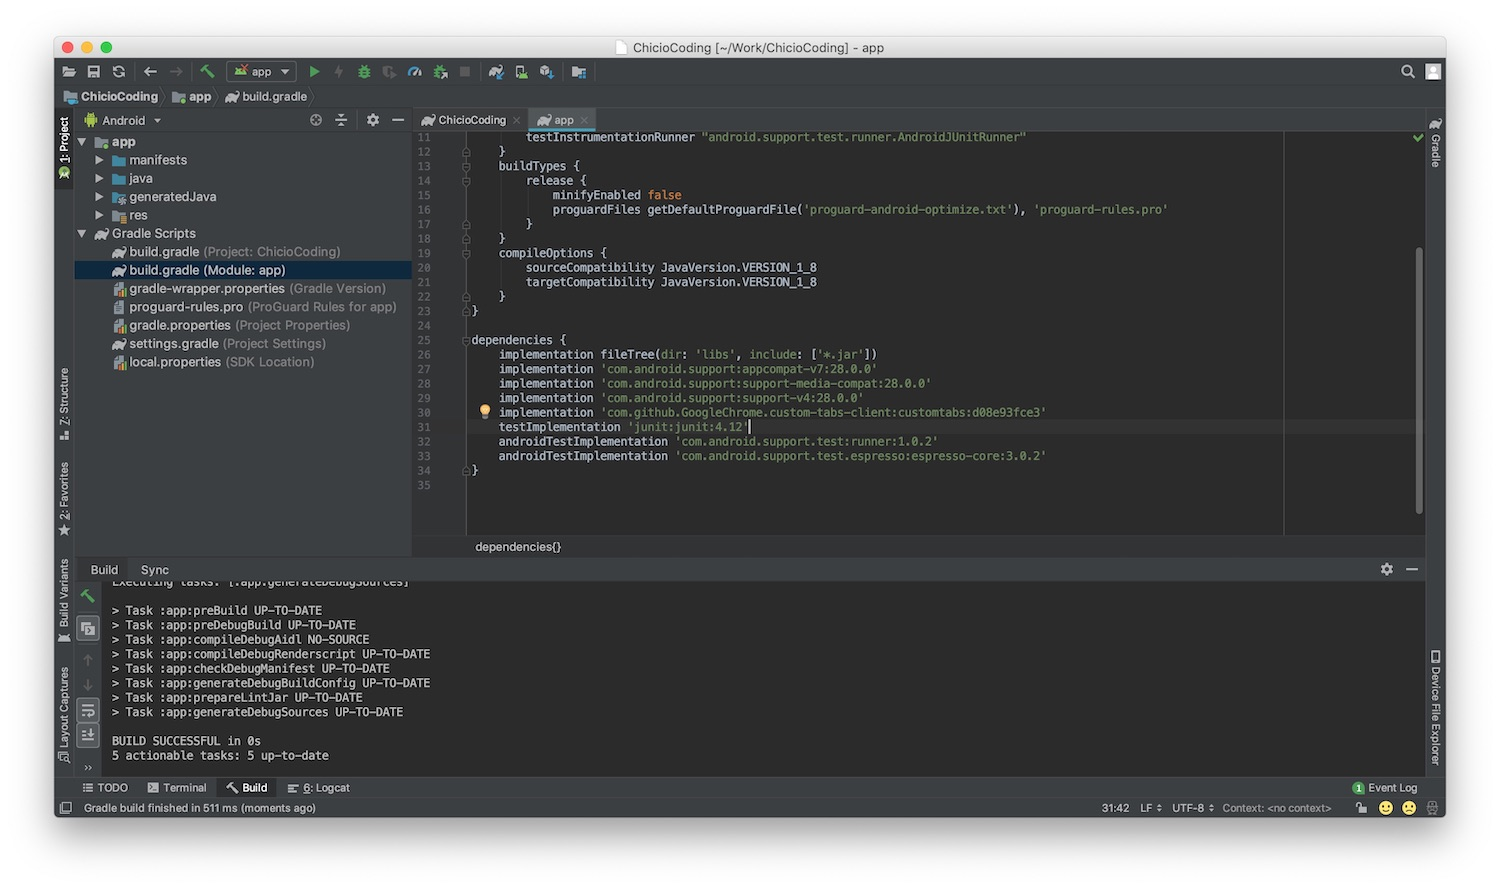
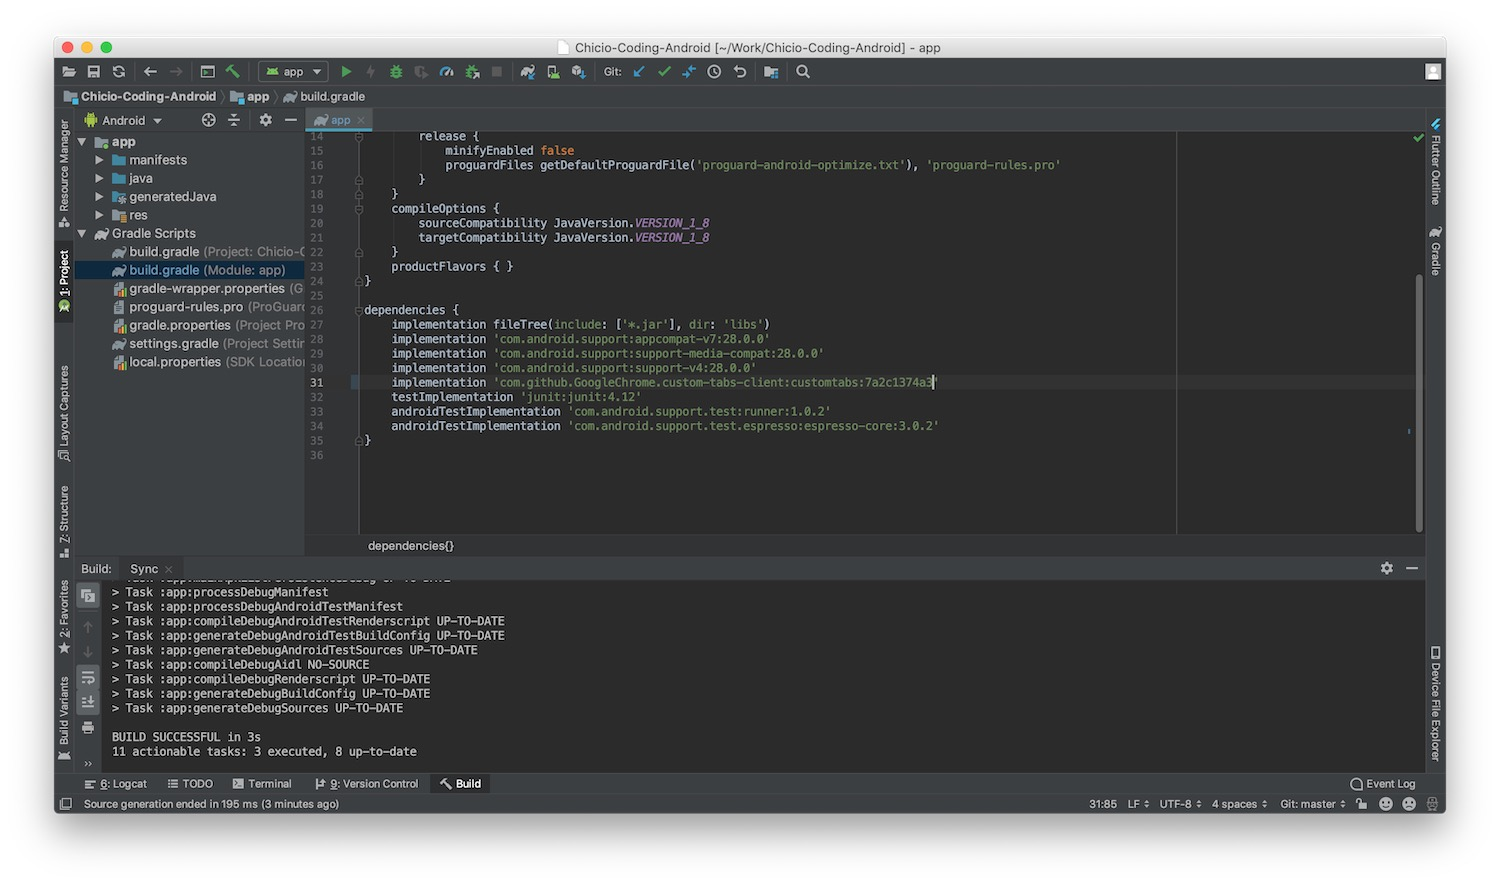
Update post :rocket:

diff --git a/_includes/critical.css b/_includes/critical.css
@@ -1,1 +1,1 @@
-@font-face{font-family:"Open Sans";src:local("Open Sans Regular"),url(/assets/fonts/opensans/OpenSans-Regular.woff2) format("woff2"),url(/assets/opensans/OpenSans-Regular.woff) format("woff"),url(/assets/opensans/OpenSans-Regular.eot?#iefix) format("embedded-opentype"),url(/assets/opensans/OpenSans-Regular.ttf) format("truetype"),url(/assets/opensans/OpenSans-Regular.svg#OpenSansRegular) format("svg");font-weight:400;font-style:normal;font-display:fallback}@font-face{font-family:icomoon;src:url(../assets/fonts/icomoon/icomoon.eot?6uv2il);src:url(../assets/fonts/icomoon/icomoon.eot?6uv2il#iefix) format("embedded-opentype"),url(../assets/fonts/icomoon/icomoon.ttf?6uv2il) format("truetype"),url(../assets/fonts/icomoon/icomoon.woff?6uv2il) format("woff"),url(../assets/fonts/icomoon/icomoon.svg?6uv2il#icomoon) format("svg");font-weight:400;font-style:normal;font-display:fallback}:root{--blue:#007bff;--indigo:#6610f2;--purple:#6f42c1;--pink:#e83e8c;--red:#dc3545;--orange:#fd7e14;--yellow:#ffc107;--green:#28a745;--teal:#20c997;--cyan:#17a2b8;--white:#fff;--gray:#6c757d;--gray-dark:#343a40;--primary:#007bff;--secondary:#6c757d;--success:#28a745;--info:#17a2b8;--warning:#ffc107;--danger:#dc3545;--light:#f8f9fa;--dark:#343a40;--breakpoint-xs:0;--breakpoint-sm:576px;--breakpoint-md:768px;--breakpoint-lg:992px;--breakpoint-xl:1200px;--font-family-sans-serif:-apple-system,BlinkMacSystemFont,"Segoe UI",Roboto,"Helvetica Neue",Arial,"Noto Sans",sans-serif,"Apple Color Emoji","Segoe UI Emoji","Segoe UI Symbol","Noto Color Emoji";--font-family-monospace:SFMono-Regular,Menlo,Monaco,Consolas,"Liberation Mono","Courier New",monospace}*,::after,::before{box-sizing:border-box}html{font-family:sans-serif;line-height:1.15;-webkit-text-size-adjust:100%}body{margin:0;font-family:-apple-system,BlinkMacSystemFont,"Segoe UI",Roboto,"Helvetica Neue",Arial,"Noto Sans",sans-serif,"Apple Color Emoji","Segoe UI Emoji","Segoe UI Symbol","Noto Color Emoji";font-size:1rem;font-weight:400;line-height:1.5;color:#212529;text-align:left;background-color:#fff}h1,h3,h4{margin-top:0;margin-bottom:.5rem}p{margin-top:0;margin-bottom:1rem}ul{margin-top:0;margin-bottom:1rem}ul ul{margin-bottom:0}small{font-size:80%}a{color:#007bff;text-decoration:none;background-color:transparent}img{vertical-align:middle;border-style:none}::-webkit-file-upload-button{font:inherit;-webkit-appearance:button}h1,h3,h4{margin-bottom:.5rem;font-weight:500;line-height:1.2}h1{font-size:2.5rem}h3{font-size:1.75rem}h4{font-size:1.5rem}small{font-size:80%;font-weight:400}.img-fluid{max-width:100%;height:auto}.container{width:100%;padding-right:15px;padding-left:15px;margin-right:auto;margin-left:auto}@media (min-width:576px){.container{max-width:540px}}@media (min-width:768px){.container{max-width:720px}}@media (min-width:992px){.container{max-width:960px}}@media (min-width:1200px){.container{max-width:1140px}}.container-fluid{width:100%;padding-right:15px;padding-left:15px;margin-right:auto;margin-left:auto}.row{display:flex;flex-wrap:wrap;margin-right:-15px;margin-left:-15px}.col-12,.col-lg-6{position:relative;width:100%;padding-right:15px;padding-left:15px}.col-12{flex:0 0 100%;max-width:100%}.order-0{order:0}.order-1{order:1}.btn{display:inline-block;font-weight:400;color:#212529;text-align:center;vertical-align:middle;background-color:transparent;border:1px solid transparent;padding:.375rem .75rem;font-size:1rem;line-height:1.5;border-radius:.25rem}.tab-content>.tab-pane{display:none}.tab-content>.active{display:block}.d-none{display:none!important}.d-block{display:block!important}@media (min-width:768px){.d-md-block{display:block!important}}@media (min-width:992px){.col-lg-6{flex:0 0 50%;max-width:50%}.order-lg-0{order:0}.order-lg-1{order:1}.d-lg-none{display:none!important}.d-lg-block{display:block!important}}.mx-auto{margin-right:auto!important}.mx-auto{margin-left:auto!important}.text-center{text-align:center!important}.text-muted{color:#6c757d!important}[class*=" icon-"],[class^=icon-]{font-family:icomoon!important;speak:none;font-style:normal;font-weight:400;font-variant:normal;text-transform:none;line-height:1;-webkit-font-smoothing:antialiased;-moz-osx-font-smoothing:grayscale}.icon-dev-dot-to:before{content:"\e900"}.icon-chevron-down:before{content:"\f078"}.icon-facebook-square:before{content:"\f082"}.icon-linkedin-square:before{content:"\f08c"}.icon-twitter:before{content:"\f099"}.icon-github:before{content:"\f09b"}.icon-briefcase:before{content:"\f0b1"}.icon-envelope:before{content:"\f0e0"}.icon-mobile-phone:before{content:"\f10b"}.icon-instagram:before{content:"\f16d"}.icon-graduation-cap:before{content:"\f19d"}.icon-medium:before{content:"\f23a"}.loader{border:5px solid #fafafa;border-top:5px solid #0f67ff;border-radius:50%;width:120px;height:120px;animation:1s ease-in-out infinite spin;z-index:200;position:absolute;top:50%;left:50%;margin:-60px 0 0 -60px}@keyframes spin{0%{transform:rotate(0)}100%{transform:rotate(360deg)}}.footer .footer-icon{font-size:1.2em;width:1.5em;height:1.5em;line-height:1.5em!important;text-align:center;background:#0f67ff;border-radius:.5em;margin:5px;color:#fff;display:inline-block}html{max-width:100%;overflow-x:hidden}html body{font:20px 'Open Sans',Helvetica,Arial,sans-serif;line-height:1.8;max-width:100%;overflow-x:hidden}p{font-size:16px}.lazy{background-color:#bdbdbd}.break{display:inline}.vertical-center-row{display:table-cell;vertical-align:middle;width:100%}.break{display:none}@media (min-width:992px){.phone-number{display:none!important}.project{max-width:1100px}}.profile-introduction{color:#fff;background-color:#3f51b5;height:100vh;min-width:100%;display:table;font-size:18px}.profile-introduction #rendering-surface{width:100%;height:100%;position:absolute;padding:0;margin:0;left:0;background-color:#3f51b5;opacity:0}.profile-introduction .center-content{background-color:transparent;position:relative;z-index:100;opacity:0}.profile-introduction .center-content a{text-decoration:none}.profile-introduction .center-content h1{font-size:32px}.profile-introduction .center-content h3{margin-top:10px;margin-bottom:20px;font-size:18px}.profile-introduction .center-content .profile-job{color:#fff}.profile-introduction .center-content .profile-icon{display:inline-block;font-size:1.5em;width:1.5em;text-align:center;line-height:1.5em;background:#0f67ff;color:#fff;border-radius:.5em;margin-top:10px}.profile-introduction .center-content.center-content-buttons{text-align:center;width:200px;margin-left:auto;margin-right:auto}.profile-introduction .center-content.center-content-buttons .profile-icon{padding-left:5px;padding-right:5px;font-size:1em;margin-top:10px;width:100%;line-height:45px;height:45px;display:block}.profile-introduction .img-responsive{width:100px;height:100px;border-radius:50px;margin:auto}.profile-introduction .down-arrow{position:absolute;bottom:25px;left:0;right:0;text-align:center;color:#fff;opacity:0}@media (min-width:576px){.profile-introduction{font-size:28px}.profile-introduction .center-content{background-color:transparent}.profile-introduction .center-content h1{font-size:42px}.profile-introduction .center-content h3{font-size:30px}.profile-introduction .center-content.center-content-buttons{width:270px}.profile-introduction .center-content.center-content-buttons .profile-icon{font-size:.7em;line-height:50px;height:50px}.profile-introduction .img-responsive{width:150px;height:150px;border-radius:75px}}.project{margin-left:auto;margin-right:auto;padding-top:15px;padding-bottom:15px}.project .project-image-container{margin-bottom:20px}.project .project-image{margin:auto;-webkit-box-shadow:0 1px 6px rgba(0,0,0,.175);box-shadow:1px 1px 6px rgba(0,0,0,.375);border-radius:3px;border:1px solid #d4d4d4;width:100%}.project .project-info{padding-left:15px;padding-right:15px;text-align:justify;color:#151515}.project .project-info .project-features{font-size:16px;margin-top:10px}.project .project-info h1{font-size:26px;font-weight:700}.project .project-info a{color:#0f67ff}.project .project-info .btn-default{color:#fff;background-color:#0f67ff;font-size:14px}@media (min-width:576px){.project .project-info{padding-left:15px;padding-right:15px}.project .project-info h1{margin:0;font-size:30px}.project .project-info p{margin-top:10px}}.timeline{list-style:none;padding:20px 0;position:relative;text-align:left;margin:0}@media (min-width:768px){.profile-introduction .center-content.center-content-buttons{width:250px}.profile-introduction .center-content.center-content-buttons .profile-icon{font-size:.8em;line-height:50px;height:50px}.timeline{text-align:justify}}.timeline:before{top:0;bottom:0;position:absolute;content:" ";width:3px;background-color:#eee;left:50%;margin-left:-1.5px}.timeline>li{padding-bottom:20px;position:relative}.timeline>li:after,.timeline>li:before{content:" ";display:table}.timeline>li:after{clear:both}.timeline>li>.timeline-panel{width:46%;float:left;border:1px solid #d4d4d4;border-radius:3px;padding:20px;position:relative;-webkit-box-shadow:0 1px 6px rgba(0,0,0,.175);box-shadow:0 1px 6px rgba(0,0,0,.175);background-color:#fff}.timeline>li>.timeline-panel:before{position:absolute;top:26px;right:-15px;display:inline-block;border-top:15px solid transparent;border-left:15px solid #ccc;border-right:0 solid #ccc;border-bottom:15px solid transparent;content:" "}.timeline>li>.timeline-panel:after{position:absolute;top:27px;right:-14px;display:inline-block;border-top:14px solid transparent;border-left:14px solid #fff;border-right:0 solid #fff;border-bottom:14px solid transparent;content:" "}.timeline>li>.timeline-badge{color:#fff;width:50px;height:50px;line-height:50px;font-size:1.4em;text-align:center;position:absolute;top:16px;left:50%;margin-left:-25px;background-color:#3f51b5;z-index:100;border-top-right-radius:50%;border-top-left-radius:50%;border-bottom-right-radius:50%;border-bottom-left-radius:50%}.timeline>li.timeline-inverted>.timeline-panel{float:right}.timeline>li.timeline-inverted>.timeline-panel:before{border-left-width:0;border-right-width:15px;left:-15px;right:auto}.timeline>li.timeline-inverted>.timeline-panel:after{border-left-width:0;border-right-width:14px;left:-14px;right:auto}.timeline-badge.work{background-color:#303f9f!important}.timeline-title{margin-top:0;color:#151515;font-size:30px;font-weight:700;word-break:normal;width:100%}.timeline-subtitle{font-size:17px;word-break:keep-all;text-align:left;color:#151515;width:100%}.timeline-heading{padding-left:20px;padding-right:20px;padding-bottom:10px}.timeline-heading img{width:80px;height:80px;margin-left:auto;margin-right:auto;margin-bottom:15px;display:block;box-shadow:0 1px 2px rgba(0,0,0,.175)}.timeline-date{float:left;margin-top:25px;margin-left:80px}.timeline-date span{width:100%}.timeline-date-inverted{float:right;margin-right:80px;margin-top:25px;margin-right:80px}.timeline-date-inverted span{width:100%}@media (min-width:768px){.timeline-heading img{float:right}.timeline-heading h4{width:100%}}.timeline-body>p,.timeline-body>ul{margin-bottom:0;font-size:16px;color:#151515}.timeline-body>ul{margin-top:10px;list-style-type:disc}.timeline-body>p+p{margin-top:5px}@media (max-width:991.98px){ul.timeline:before{left:40px}ul.timeline>li>.timeline-panel{width:calc(100% - 90px);width:-moz-calc(100% - 90px);width:-webkit-calc(100% - 90px)}ul.timeline>li>.timeline-badge{left:15px;margin-left:0;top:16px}ul.timeline>li>.timeline-panel{float:right}ul.timeline>li>.timeline-panel:before{border-left-width:0;border-right-width:15px;left:-15px;right:auto}ul.timeline>li>.timeline-panel:after{border-left-width:0;border-right-width:14px;left:-14px;right:auto}.timeline-title{font-size:21px;width:100%}}
+@font-face{font-family:"Open Sans";src:local("Open Sans Regular"),url(/assets/fonts/opensans/OpenSans-Regular.woff2) format("woff2"),url(/assets/opensans/OpenSans-Regular.woff) format("woff"),url(/assets/opensans/OpenSans-Regular.eot?#iefix) format("embedded-opentype"),url(/assets/opensans/OpenSans-Regular.ttf) format("truetype"),url(/assets/opensans/OpenSans-Regular.svg#OpenSansRegular) format("svg");font-weight:400;font-style:normal;font-display:fallback}@font-face{font-family:icomoon;src:url(../assets/fonts/icomoon/icomoon.eot?6uv2il);src:url(../assets/fonts/icomoon/icomoon.eot?6uv2il#iefix) format("embedded-opentype"),url(../assets/fonts/icomoon/icomoon.ttf?6uv2il) format("truetype"),url(../assets/fonts/icomoon/icomoon.woff?6uv2il) format("woff"),url(../assets/fonts/icomoon/icomoon.svg?6uv2il#icomoon) format("svg");font-weight:400;font-style:normal;font-display:fallback}:root{--blue:#007bff;--indigo:#6610f2;--purple:#6f42c1;--pink:#e83e8c;--red:#dc3545;--orange:#fd7e14;--yellow:#ffc107;--green:#28a745;--teal:#20c997;--cyan:#17a2b8;--white:#fff;--gray:#6c757d;--gray-dark:#343a40;--primary:#007bff;--secondary:#6c757d;--success:#28a745;--info:#17a2b8;--warning:#ffc107;--danger:#dc3545;--light:#f8f9fa;--dark:#343a40;--breakpoint-xs:0;--breakpoint-sm:576px;--breakpoint-md:768px;--breakpoint-lg:992px;--breakpoint-xl:1200px;--font-family-sans-serif:-apple-system,BlinkMacSystemFont,"Segoe UI",Roboto,"Helvetica Neue",Arial,"Noto Sans",sans-serif,"Apple Color Emoji","Segoe UI Emoji","Segoe UI Symbol","Noto Color Emoji";--font-family-monospace:SFMono-Regular,Menlo,Monaco,Consolas,"Liberation Mono","Courier New",monospace}*,::after,::before{box-sizing:border-box}html{font-family:sans-serif;line-height:1.15;-webkit-text-size-adjust:100%}body{margin:0;font-family:-apple-system,BlinkMacSystemFont,"Segoe UI",Roboto,"Helvetica Neue",Arial,"Noto Sans",sans-serif,"Apple Color Emoji","Segoe UI Emoji","Segoe UI Symbol","Noto Color Emoji";font-size:1rem;font-weight:400;line-height:1.5;color:#212529;text-align:left;background-color:#fff}h1,h3,h4{margin-top:0;margin-bottom:.5rem}p{margin-top:0;margin-bottom:1rem}ul{margin-top:0;margin-bottom:1rem}ul ul{margin-bottom:0}small{font-size:80%}a{color:#007bff;text-decoration:none;background-color:transparent}img{vertical-align:middle;border-style:none}::-webkit-file-upload-button{font:inherit;-webkit-appearance:button}h1,h3,h4{margin-bottom:.5rem;font-weight:500;line-height:1.2}h1{font-size:2.5rem}h3{font-size:1.75rem}h4{font-size:1.5rem}small{font-size:80%;font-weight:400}.container{width:100%;padding-right:15px;padding-left:15px;margin-right:auto;margin-left:auto}@media (min-width:576px){.container{max-width:540px}}@media (min-width:768px){.container{max-width:720px}}@media (min-width:992px){.container{max-width:960px}}@media (min-width:1200px){.container{max-width:1140px}}.container-fluid{width:100%;padding-right:15px;padding-left:15px;margin-right:auto;margin-left:auto}.row{display:flex;flex-wrap:wrap;margin-right:-15px;margin-left:-15px}.tab-content>.tab-pane{display:none}.d-none{display:none!important}@media (min-width:768px){.d-md-block{display:block!important}}@media (min-width:992px){.d-lg-none{display:none!important}.d-lg-block{display:block!important}}.text-center{text-align:center!important}.text-muted{color:#6c757d!important}[class*=" icon-"],[class^=icon-]{font-family:icomoon!important;speak:none;font-style:normal;font-weight:400;font-variant:normal;text-transform:none;line-height:1;-webkit-font-smoothing:antialiased;-moz-osx-font-smoothing:grayscale}.icon-dev-dot-to:before{content:"\e900"}.icon-chevron-down:before{content:"\f078"}.icon-facebook-square:before{content:"\f082"}.icon-linkedin-square:before{content:"\f08c"}.icon-twitter:before{content:"\f099"}.icon-github:before{content:"\f09b"}.icon-briefcase:before{content:"\f0b1"}.icon-envelope:before{content:"\f0e0"}.icon-mobile-phone:before{content:"\f10b"}.icon-instagram:before{content:"\f16d"}.icon-graduation-cap:before{content:"\f19d"}.icon-medium:before{content:"\f23a"}.loader{border:5px solid #fafafa;border-top:5px solid #0f67ff;border-radius:50%;width:120px;height:120px;animation:1s ease-in-out infinite spin;z-index:200;position:absolute;top:50%;left:50%;margin:-60px 0 0 -60px}@keyframes spin{0%{transform:rotate(0)}100%{transform:rotate(360deg)}}.footer .footer-icon{font-size:1.2em;width:1.5em;height:1.5em;line-height:1.5em!important;text-align:center;background:#0f67ff;border-radius:.5em;margin:5px;color:#fff;display:inline-block}html{max-width:100%;overflow-x:hidden}html body{font:20px 'Open Sans',Helvetica,Arial,sans-serif;line-height:1.8;max-width:100%;overflow-x:hidden}p{font-size:16px}.lazy{background-color:#bdbdbd}.break{display:inline}.vertical-center-row{display:table-cell;vertical-align:middle;width:100%}.break{display:none}@media (min-width:992px){.phone-number{display:none!important}}.profile-introduction{color:#fff;background-color:#3f51b5;height:100vh;min-width:100%;display:table;font-size:18px}.profile-introduction #rendering-surface{width:100%;height:100%;position:absolute;padding:0;margin:0;left:0;background-color:#3f51b5;opacity:0}.profile-introduction .center-content{background-color:transparent;position:relative;z-index:100;opacity:0}.profile-introduction .center-content a{text-decoration:none}.profile-introduction .center-content h1{font-size:32px}.profile-introduction .center-content h3{margin-top:10px;margin-bottom:20px;font-size:18px}.profile-introduction .center-content .profile-job{color:#fff}.profile-introduction .center-content .profile-icon{display:inline-block;font-size:1.5em;width:1.5em;text-align:center;line-height:1.5em;background:#0f67ff;color:#fff;border-radius:.5em;margin-top:10px}.profile-introduction .center-content.center-content-buttons{text-align:center;width:200px;margin-left:auto;margin-right:auto}.profile-introduction .center-content.center-content-buttons .profile-icon{padding-left:5px;padding-right:5px;font-size:1em;margin-top:10px;width:100%;line-height:45px;height:45px;display:block}.profile-introduction .img-responsive{width:100px;height:100px;border-radius:50px;margin:auto}.profile-introduction .down-arrow{position:absolute;bottom:25px;left:0;right:0;text-align:center;color:#fff;opacity:0}@media (min-width:576px){.profile-introduction{font-size:28px}.profile-introduction .center-content{background-color:transparent}.profile-introduction .center-content h1{font-size:42px}.profile-introduction .center-content h3{font-size:30px}.profile-introduction .center-content.center-content-buttons{width:270px}.profile-introduction .center-content.center-content-buttons .profile-icon{font-size:.7em;line-height:50px;height:50px}.profile-introduction .img-responsive{width:150px;height:150px;border-radius:75px}}.timeline{list-style:none;padding:20px 0;position:relative;text-align:left;margin:0}@media (min-width:768px){.profile-introduction .center-content.center-content-buttons{width:250px}.profile-introduction .center-content.center-content-buttons .profile-icon{font-size:.8em;line-height:50px;height:50px}.timeline{text-align:justify}}.timeline:before{top:0;bottom:0;position:absolute;content:" ";width:3px;background-color:#eee;left:50%;margin-left:-1.5px}.timeline>li{padding-bottom:20px;position:relative}.timeline>li:after,.timeline>li:before{content:" ";display:table}.timeline>li:after{clear:both}.timeline>li>.timeline-panel{width:46%;float:left;border:1px solid #d4d4d4;border-radius:3px;padding:20px;position:relative;-webkit-box-shadow:0 1px 6px rgba(0,0,0,.175);box-shadow:0 1px 6px rgba(0,0,0,.175);background-color:#fff}.timeline>li>.timeline-panel:before{position:absolute;top:26px;right:-15px;display:inline-block;border-top:15px solid transparent;border-left:15px solid #ccc;border-right:0 solid #ccc;border-bottom:15px solid transparent;content:" "}.timeline>li>.timeline-panel:after{position:absolute;top:27px;right:-14px;display:inline-block;border-top:14px solid transparent;border-left:14px solid #fff;border-right:0 solid #fff;border-bottom:14px solid transparent;content:" "}.timeline>li>.timeline-badge{color:#fff;width:50px;height:50px;line-height:50px;font-size:1.4em;text-align:center;position:absolute;top:16px;left:50%;margin-left:-25px;background-color:#3f51b5;z-index:100;border-top-right-radius:50%;border-top-left-radius:50%;border-bottom-right-radius:50%;border-bottom-left-radius:50%}.timeline>li.timeline-inverted>.timeline-panel{float:right}.timeline>li.timeline-inverted>.timeline-panel:before{border-left-width:0;border-right-width:15px;left:-15px;right:auto}.timeline>li.timeline-inverted>.timeline-panel:after{border-left-width:0;border-right-width:14px;left:-14px;right:auto}.timeline-badge.work{background-color:#303f9f!important}.timeline-title{margin-top:0;color:#151515;font-size:30px;font-weight:700;word-break:normal;width:100%}.timeline-subtitle{font-size:17px;word-break:keep-all;text-align:left;color:#151515;width:100%}.timeline-heading{padding-left:20px;padding-right:20px;padding-bottom:10px}.timeline-heading img{width:80px;height:80px;margin-left:auto;margin-right:auto;margin-bottom:15px;display:block;box-shadow:0 1px 2px rgba(0,0,0,.175)}.timeline-date{float:left;margin-top:25px;margin-left:80px}.timeline-date span{width:100%}.timeline-date-inverted{float:right;margin-right:80px;margin-top:25px;margin-right:80px}.timeline-date-inverted span{width:100%}@media (min-width:768px){.timeline-heading img{float:right}.timeline-heading h4{width:100%}}.timeline-body>p,.timeline-body>ul{margin-bottom:0;font-size:16px;color:#151515}.timeline-body>ul{margin-top:10px;list-style-type:disc}.timeline-body>p+p{margin-top:5px}@media (max-width:991.98px){ul.timeline:before{left:40px}ul.timeline>li>.timeline-panel{width:calc(100% - 90px);width:-moz-calc(100% - 90px);width:-webkit-calc(100% - 90px)}ul.timeline>li>.timeline-badge{left:15px;margin-left:0;top:16px}ul.timeline>li>.timeline-panel{float:right}ul.timeline>li>.timeline-panel:before{border-left-width:0;border-right-width:15px;left:-15px;right:auto}ul.timeline>li>.timeline-panel:after{border-left-width:0;border-right-width:14px;left:-14px;right:auto}.timeline-title{font-size:21px;width:100%}}

diff --git a/_posts/2019-06-13-google-play-store-publish-pwa.md b/_posts/2019-06-13-google-play-store-publish-pwa.md
@@ -34,11 +34,15 @@ So as you can read above, a Trusted Web Activity let you integrate web content t
 
 #### Implementation
 
-Let's start to see the real action: how I publish my blog PWA to the Google Play Store using TWA. First of all, I created a nw android project. This was a standard Android project with minimum API level 16. This let me cover the 99.6% of the Android user base. I choosed to create an empty project without any activity/fragment in it.
+Let's start to see the real action: how I publish my blog PWA to the Google Play Store using TWA. First of all, I created a nw android project. This was a standard Android project with minimum API level 16. This let me cover the 99.6% of the Android user base. I chosed to create an empty project without any activity/fragment in it.
 
 {% include blog-lazy-image.html description="pwa app create project" width="1500" height="1236" src="/assets/images/posts/pwa-app-01-create-project.jpg" %}
 
-Then I added the TWA support as a dependency of the app. The TWA implementation is contained inside the custom tabs client library published on [Jitpack](https://jitpack.io/ "Jitpack") (because unfortunately at the moment of this writing the custom tabs client library contained inside Jetpack doesn't have the TWA support). So I added Jitpack as repository to the project level gradle file. Then I added the custom tabs client library as dependency inside the module gradle file. This last dependency points to the custom tabs client library published on github and exposed through Jitpack. I had to specify a specific commit hash in order to be sure that the library version downloaded contains the TWA support.
+Then I added the TWA support as a dependency of the app. The TWA implementation is contained inside the custom tabs client library published on [Jitpack](https://jitpack.io/ "Jitpack") (because unfortunately at the moment of this writing the custom tabs client library contained inside Jetpack doesn't have the TWA support). So I added Jitpack as repository to the project level gradle file. Then I added the custom tabs client library as dependency inside the module gradle file. This last dependency points to the custom tabs client library published on github and exposed through Jitpack. I had to specify a specific commit hash in order to be sure that the library version downloaded contains the TWA support. Precisely, I added the following line of code to the gradle file.
+
+```gradle
+implementation 'com.github.GoogleChrome.custom-tabs-client:customtabs:7a2c1374a3'
+```
 
 {% include blog-lazy-image.html description="pwa app jitpack" width="1500" height="889" src="/assets/images/posts/pwa-app-02-jitpack-configuration.jpg" %}
 {% include blog-lazy-image.html description="pwa app custom tab library" width="1500" height="889" src="/assets/images/posts/pwa-app-03-java8-and-custom-tab-dependecies.jpg" %}
